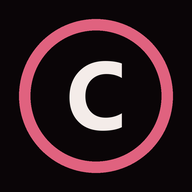
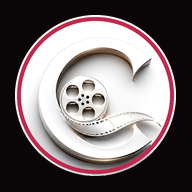
new

diff --git a/public/index.html b/public/index.html
@@ -65,9 +65,9 @@
    "url": "https://cinemoraproduction.com/",
    "logo": {
     "@type": "ImageObject",
-    "url": "https://cinemoraproduction.com/assets/logo.png",
-    "width": 640,
-    "height": 119
+    "url": "https://cinemoraproduction.com/assets/logo-full.png",
+    "width": 800,
+    "height": 800
    },
    "image": [
     "https://cinemoraproduction.com/assets/og-image.jpg",
@@ -82,12 +82,13 @@
    "currenciesAccepted": "LKR",
    "address": {
     "@type": "PostalAddress",
-    "streetAddress": "Near the Police Station, Pathegama",
+    "streetAddress": "Near Ahungalla Police Station, Pathegama",
     "addressLocality": "Balapitiya",
+    "postalCode": "80550",
     "addressRegion": "Southern Province",
     "addressCountry": "LK"
    },
-   "hasMap": "https://www.google.com/maps/search/?api=1&query=Pathegama%2C+Balapitiya%2C+Sri+Lanka",
+   "hasMap": "https://www.google.com/maps/search/?api=1&query=Ahungalla+Police+Station%2C+Balapitiya%2C+Sri+Lanka",
    "areaServed": [
     {
      "@type": "City",
@@ -816,7 +817,7 @@ body.loading main *,body.loading header{animation-play-state:paused!important}
 #bg{position:fixed;inset:0;z-index:0}
 header{position:fixed;top:0;left:0;right:0;z-index:5;display:flex;flex-wrap:wrap;align-items:center;justify-content:space-between;gap:10px;padding:14px 5vw;padding-top:calc(14px + env(safe-area-inset-top,0px));background:linear-gradient(#0a0507ee,#0a050700)}
 .logo{font-family:"Unbounded",var(--h);font-weight:800;letter-spacing:.24em;text-transform:uppercase;font-size:.95rem}
-.logo img{height:46px;width:auto;display:block}@media(max-width:600px){.logo img{height:34px}}
+.logo{display:flex;align-items:center;gap:12px}.logo img{height:46px;width:auto;display:block}.logo img.mark{height:52px;width:52px;border-radius:50%;box-shadow:0 0 14px rgba(224,98,127,.35)}@media(max-width:600px){.logo{gap:8px}.logo img{height:34px}.logo img.mark{height:40px;width:40px}}
 .ph{font-size:clamp(2.2rem,6vw,4.6rem);line-height:1.05;max-width:16ch;margin-bottom:14px}
 .pills{display:flex;flex-wrap:wrap;gap:8px;margin:0 0 30px}
 .pills button{background:transparent;border:1px solid var(--line);color:var(--fg);padding:9px 16px;border-radius:30px;font:400 .76rem var(--b);letter-spacing:.08em;cursor:pointer;transition:.25s}
@@ -901,7 +902,7 @@ a.l{text-decoration:none;border-bottom:1px solid var(--line);transition:.2s}a.l:
 .rec i{width:9px;height:9px;border-radius:50%;background:#ff2d4d;animation:blink 1s infinite}
 @keyframes blink{50%{opacity:.15}}
 #home.on .rec,#home.on .tag,#home.on .tagline,#home.on .sub,#home.on .hbtn{animation:rise 1s cubic-bezier(.2,.7,.2,1) both}
-#home.on .rec{animation-delay:.1s}#home.on .tag{animation-delay:.25s}#home.on .tagline{animation-delay:1.5s}#home.on .sub{animation-delay:1.7s}#home.on .hbtn{animation-delay:1.9s}
+#home.on .rec{animation-delay:.1s}#home.on .tag{animation-delay:.25s}#home.on .tagline{animation-delay:.5s}#home.on .sub{animation-delay:.65s}#home.on .hbtn{animation-delay:.8s}
 .tagline{font-size:1.2rem;color:var(--mut);margin:18px 0 6px;letter-spacing:.05em}
 .tagline em{color:var(--acc2);font-style:normal;font-weight:500}
 .scrollhint{margin-top:50px;color:var(--mut);letter-spacing:.3em;font-size:.68rem;animation:bob 1.6s infinite}
@@ -1029,6 +1030,36 @@ img{max-width:100%}
   *,*:before,*:after{animation-duration:.01ms!important;animation-delay:0s!important;animation-iteration-count:1!important;transition-duration:.01ms!important;scroll-behavior:auto!important}
   .scn>*{opacity:1;transform:none}
 }
+
+/* Phones: keep the 3D reel as atmosphere, never on top of the words */
+@media(max-width:800px){#bg{opacity:.32}#glow{display:none}}
+/* Phone action bar: Call / WhatsApp / Quote always one tap away */
+.works{display:grid;grid-template-columns:repeat(4,1fr);gap:14px;margin-top:28px}
+@media(max-width:900px){.works{grid-template-columns:repeat(2,1fr)}}
+.wk{position:relative;display:block;aspect-ratio:9/16;border-radius:14px;overflow:hidden;border:1px solid var(--line);text-decoration:none;color:#fff;background:#1a0a10}
+.wk img{width:100%;height:100%;object-fit:cover;display:block;transition:transform .6s cubic-bezier(.2,.7,.2,1)}
+.wk:after{content:"";position:absolute;inset:0;background:linear-gradient(transparent 45%,rgba(10,5,7,.92))}
+.wk:hover img,.wk:focus-visible img{transform:scale(1.05)}
+.wp{position:absolute;top:50%;left:50%;width:54px;height:54px;margin:-27px 0 0 -27px;border-radius:50%;background:rgba(194,41,77,.85);display:flex;align-items:center;justify-content:center;z-index:1;box-shadow:0 0 0 6px rgba(194,41,77,.25);transition:transform .25s}
+.wk:hover .wp{transform:scale(1.1)}
+.wi{position:absolute;left:14px;right:14px;bottom:14px;z-index:1;display:flex;flex-direction:column;gap:3px}
+.wi em{font-style:normal;font-size:.62rem;letter-spacing:.2em;text-transform:uppercase;color:var(--acc2)}
+.wi b{font-weight:600;font-size:.98rem;line-height:1.25}
+.wi small{font-size:.72rem;color:#d9c8cc}
+@media(max-width:600px){.wi b{font-size:.85rem}.wp{width:44px;height:44px;margin:-22px 0 0 -22px}}
+.proof{margin-top:18px;color:var(--mut);font-size:.85rem}.proof b{color:var(--fg)}
+#bar{display:none}
+@media(max-width:800px){
+#wa{display:none}
+#bar{display:grid;grid-template-columns:1fr 1fr 1.25fr;gap:8px;position:fixed;left:0;right:0;bottom:0;z-index:40;padding:10px 12px calc(10px + env(safe-area-inset-bottom,0px));background:linear-gradient(#0a050700,#0a0507e6 30%);backdrop-filter:blur(6px);-webkit-backdrop-filter:blur(6px)}
+#bar a,#bar button{display:flex;align-items:center;justify-content:center;gap:7px;min-height:48px;border-radius:26px;font:500 .82rem var(--b);letter-spacing:.06em;text-decoration:none;color:#fff;border:1px solid var(--line);background:#1a0a10;cursor:pointer}
+#bar .bwa{background:#1f9d55;border-color:#1f9d55}
+#bar .bq{background:var(--acc);border-color:var(--acc)}
+#bar svg{flex:none}
+footer{padding-bottom:110px}
+}
+#qok{display:none;margin-top:14px;padding:12px 14px;border:1px solid #1f9d55;border-radius:10px;color:#bff0d3;font-size:.88rem;line-height:1.5}
+#qok.on{display:block}
 </style>
 <noscript><style>body.loading{overflow:visible}#intro{display:none}</style></noscript>
 </head>
@@ -1039,7 +1070,7 @@ img{max-width:100%}
 <div class="s">VIDEOGRAPHY SERVICE</div><div class="fl"></div><div class="pb"></div><div class="sk">TAP TO SKIP</div></div>
 <canvas id="bg" aria-hidden="true"></canvas><div id="glow" aria-hidden="true"></div>
 <header>
-  <a class="logo" href="/" data-t="home" aria-label="Cinemora Production home"><img src="/assets/logo.png" alt="Cinemora Production" width="640" height="119" fetchpriority="high" decoding="async"></a>
+  <a class="logo" href="/" data-t="home" aria-label="Cinemora Production home"><img class="mark" src="/assets/logo-mark.png" alt="" width="192" height="192" decoding="async"><img src="/assets/logo.png" alt="Cinemora Production" width="640" height="119" fetchpriority="high" decoding="async"></a>
   <nav id="nav" aria-label="Main">
     <a href="/" data-t="home" class="on" aria-current="page">Home</a>
     <a href="/prices" data-t="prices">Pricing &amp; Packages</a>
@@ -1055,7 +1086,7 @@ img{max-width:100%}
     <h1 class="hero" data-h1="home"><span class="tag">Wedding Cinematography &amp; Videography · Sri Lanka</span><span class="big" id="big" aria-hidden="true">CINEMORA</span><span class="vh">Cinemora Production</span></h1>
     <div class="tagline">We shape your <em>story</em> in motion.</div>
     <p class="sub">Cinemora Production creates cinematic wedding films, events, corporate videos and commercials that people remember.</p>
-    <div class="hbtn"><a class="cta" href="/contact" data-go="contact">Book a Shoot</a></div>
+    <div class="hbtn btns" style="margin-top:0"><a class="cta" href="/contact" data-go="contact">Book a Shoot</a><a class="cta ghost" href="/prices" data-go="prices">See Packages &amp; Prices</a></div>
     <div class="scrollhint" aria-hidden="true">SCROLL ↓</div>
     <div style="height:20vh"></div>
     <div class="scn"><div class="tag">Who we are</div><h2 style="font-size:clamp(2rem,6vw,4.2rem);max-width:16ch">Every frame tells a story worth remembering.</h2><p class="sub">Cinemora Production is a creative production brand from Balapitiya, Sri Lanka, built around capturing emotions, telling stories and turning special moments into timeless visual experiences, from weddings and celebrations to brand films across the island.</p></div>
@@ -1065,8 +1096,13 @@ img{max-width:100%}
       <div class="card"><h3>Corporate</h3><ul><li>Brand and promo videos</li><li><a href="/prices" data-go="prices">Corporate packages from Rs. 35,000</a></li></ul></div>
       <div class="card"><h3>Commercials</h3><ul><li>Ads, product films and music videos</li><li><a href="/prices" data-go="prices">Commercials from Rs. 40,000</a></li></ul></div>
     </div></div>
+    <div class="scn"><div class="tag">Our work</div><h2>Watch Our Films</h2><p class="sub">Real films we’ve shot for real people, watched by thousands on Facebook. Tap any film to watch it.</p>
+      <div class="works"><a class="wk" href="https://www.facebook.com/reel/982675031117422/" target="_blank" rel="noopener noreferrer" aria-label="Watch BMW S1000RR on Facebook (12K views)"><img src="/assets/work/bmw.jpg" alt="Still from BMW S1000RR, filmed by Cinemora Production" width="432" height="768" loading="lazy" decoding="async"><span class="wp" aria-hidden="true"><svg width="22" height="22" viewBox="0 0 24 24" fill="#fff"><path d="M8 5v14l11-7z"/></svg></span><span class="wi"><em>Commercial</em><b>BMW S1000RR</b><small>12K views on Facebook</small></span></a><a class="wk" href="https://www.facebook.com/reel/1079789437947622/" target="_blank" rel="noopener noreferrer" aria-label="Watch An engagement story on Facebook (4.4K views)"><img src="/assets/work/engagement.jpg" alt="Still from An engagement story, filmed by Cinemora Production" width="432" height="768" loading="lazy" decoding="async"><span class="wp" aria-hidden="true"><svg width="22" height="22" viewBox="0 0 24 24" fill="#fff"><path d="M8 5v14l11-7z"/></svg></span><span class="wi"><em>Wedding</em><b>An engagement story</b><small>4.4K views on Facebook</small></span></a><a class="wk" href="https://www.facebook.com/reel/996662083465199/" target="_blank" rel="noopener noreferrer" aria-label="Watch A midnight birthday surprise on Facebook (4.1K views)"><img src="/assets/work/surprise.jpg" alt="Still from A midnight birthday surprise, filmed by Cinemora Production" width="432" height="768" loading="lazy" decoding="async"><span class="wp" aria-hidden="true"><svg width="22" height="22" viewBox="0 0 24 24" fill="#fff"><path d="M8 5v14l11-7z"/></svg></span><span class="wi"><em>Event</em><b>A midnight birthday surprise</b><small>4.1K views on Facebook</small></span></a><a class="wk" href="https://www.facebook.com/reel/1407479184326211/" target="_blank" rel="noopener noreferrer" aria-label="Watch Morning at the old bridge on Facebook (2K views)"><img src="/assets/work/bridge.jpg" alt="Still from Morning at the old bridge, filmed by Cinemora Production" width="432" height="768" loading="lazy" decoding="async"><span class="wp" aria-hidden="true"><svg width="22" height="22" viewBox="0 0 24 24" fill="#fff"><path d="M8 5v14l11-7z"/></svg></span><span class="wi"><em>Cinematic</em><b>Morning at the old bridge</b><small>2K views on Facebook</small></span></a></div>
+      <div class="btns"><a class="cta ghost" href="https://www.facebook.com/CinemoraProduction/reels/" target="_blank" rel="noopener noreferrer">See all films on Facebook ↗</a><a class="cta ghost" href="https://www.tiktok.com/@cinemora.production" target="_blank" rel="noopener noreferrer">TikTok ↗</a></div>
+      <p class="proof"><b>7.2K+</b> followers on Facebook &nbsp;·&nbsp; <b>100%</b> of reviewers recommend us</p>
+    </div>
     <div class="scn"><div class="tag">By the numbers</div><div class="grid"><div class="card"><div class="num" data-to="5">5+</div><p class="sub" style="margin:6px 0 0">Years of experience</p></div><div class="card"><div class="num" data-to="200">200+</div><p class="sub" style="margin:6px 0 0">Projects filmed</p></div><div class="card"><div class="num" data-to="150">150+</div><p class="sub" style="margin:6px 0 0">Happy clients</p></div></div></div>
-    <div class="scn" style="align-items:center;text-align:center"><h2 style="font-size:clamp(2rem,6vw,4.2rem)">Let’s make your film.</h2><p class="sub" style="margin:18px auto 28px">Tell us about your day or project and we’ll take care of the rest.</p><div><a class="cta" href="/contact" data-go="contact">Book a Shoot</a></div></div>
+    <div class="scn" style="align-items:center;text-align:center"><h2 style="font-size:clamp(2rem,6vw,4.2rem)">Let’s make your film.</h2><p class="sub" style="margin:18px auto 28px">Tell us about your day or project and we’ll take care of the rest.</p><div class="btns" style="justify-content:center"><button type="button" class="cta" data-quote>Request a Quotation</button><a class="cta ghost" href="tel:+94703770730">Call 070 377 0730</a></div></div>
   </section>
 
   <section id="prices" aria-labelledby="prices-h">
@@ -1074,7 +1110,7 @@ img{max-width:100%}
     <h2 class="ph" id="prices-h" data-h1="prices">Every Moment. A Masterpiece.</h2>
     <p class="sub" style="margin-bottom:10px">Explore our carefully crafted production packages, designed to transform moments into timeless visual stories.</p>
     <p class="sub" style="margin:0 0 26px;font-size:.92rem">From cinematic wedding films to commercial productions, every package is built around your story. All prices are starting prices in Sri Lankan Rupees (Rs.). Choose a category, pick a package and request your quotation.</p>
-    <div class="pills" id="pills" role="toolbar" aria-label="Service categories"><button type="button" data-f="all">All</button><button type="button" data-f="0" class="on" aria-pressed="true">Wedding Cinematography</button><button type="button" data-f="1" aria-pressed="false">Birthday &amp; Private Events</button><button type="button" data-f="2" aria-pressed="false">Commercial Productions</button><button type="button" data-f="3" aria-pressed="false">Corporate &amp; Special Events</button><button type="button" data-f="4" aria-pressed="false">Product Photography &amp; Videography</button><button type="button" data-f="5" aria-pressed="false">Portrait &amp; Lifestyle Photography</button><button type="button" data-f="6" aria-pressed="false">Music Videos &amp; Creative Films</button></div>
+    <div class="pills" id="pills" role="toolbar" aria-label="Service categories"><button type="button" data-f="all" aria-pressed="false">All</button><button type="button" data-f="0" class="on" aria-pressed="true">Wedding Cinematography</button><button type="button" data-f="1" aria-pressed="false">Birthday &amp; Private Events</button><button type="button" data-f="2" aria-pressed="false">Commercial Productions</button><button type="button" data-f="3" aria-pressed="false">Corporate &amp; Special Events</button><button type="button" data-f="4" aria-pressed="false">Product Photography &amp; Videography</button><button type="button" data-f="5" aria-pressed="false">Portrait &amp; Lifestyle Photography</button><button type="button" data-f="6" aria-pressed="false">Music Videos &amp; Creative Films</button></div>
     <div id="pk">
       <article class="cat cur" id="wedding-cinematography" data-ci="0" data-name="Wedding Cinematography" aria-labelledby="cat-0">
         <div class="cathead"><div class="tag">Category 01</div><h3 id="cat-0">Wedding Cinematography</h3><p>Wedding videography only, crafted as a cinematic film.</p></div>
@@ -1149,12 +1185,13 @@ img{max-width:100%}
 
   <section id="contact" aria-labelledby="contact-h">
     <div class="tag">Get in touch</div><h2 id="contact-h" data-h1="contact">Contact Details</h2>
+    <p class="sub" style="margin:10px 0 0">Call, WhatsApp or email us to check your date. We usually reply the same day.</p>
     <div class="card" style="max-width:600px;margin-top:24px">
       <div class="row"><b>Phone</b><span><a class="l" href="tel:+94703770730">070 377 0730</a> &nbsp;|&nbsp; <a class="l" href="tel:+94743500507">074 350 0507</a></span></div>
       <div class="row"><b>Email</b><a class="l" href="mailto:cinemoraproductionlk@gmail.com">cinemoraproductionlk@gmail.com</a></div>
-      <div class="row"><b>WhatsApp</b><a class="l" href="https://wa.me/message/E7ERP73DCK3QJ1" target="_blank" rel="noopener noreferrer">Chat with us</a></div>
+      <div class="row"><b>WhatsApp</b><a class="l" href="https://wa.me/message/E7ERP73DCK3QJ1" target="_blank" rel="noopener noreferrer">074 350 0507 · Chat with us</a></div>
     </div>
-    <div class="btns"><a class="cta" href="tel:+94703770730">Call Now</a><a class="cta ghost" href="https://wa.me/message/E7ERP73DCK3QJ1" target="_blank" rel="noopener noreferrer">WhatsApp</a><a class="cta ghost" href="mailto:cinemoraproductionlk@gmail.com">Send Email</a></div>
+    <div class="btns"><a class="cta" href="tel:+94703770730">Call Now</a><a class="cta ghost" href="https://wa.me/message/E7ERP73DCK3QJ1" target="_blank" rel="noopener noreferrer">WhatsApp</a><a class="cta ghost" href="mailto:cinemoraproductionlk@gmail.com">Send Email</a><button type="button" class="cta ghost" data-quote>Request a Quotation</button></div>
   </section>
 
   <section id="social" aria-labelledby="social-h">
@@ -1190,16 +1227,16 @@ img{max-width:100%}
     <div class="locwrap">
       <div class="card">
         <div class="row"><b>Location</b><span>Balapitiya, Sri Lanka</span></div>
-        <div class="row"><b>Address</b><span>Thusal’s home, near the police station,<br>Pathegama, Balapitiya</span></div>
-        <div class="row"><b>Visit</b><span>Please call or message before visiting</span></div>
-        <div class="btns"><a class="cta" href="https://www.google.com/maps/search/?api=1&amp;query=Pathegama%2C+Balapitiya%2C+Sri+Lanka" target="_blank" rel="noopener noreferrer">Open in Google Maps</a><a class="cta ghost" href="https://www.google.com/maps/dir/?api=1&amp;destination=Pathegama%2C+Balapitiya%2C+Sri+Lanka" target="_blank" rel="noopener noreferrer">Get Directions</a></div>
+        <div class="row"><b>Address</b><span>Thusal’s home, near Ahungalla Police Station,<br>Pathegama, Balapitiya</span></div>
+        <div class="row"><b>Visit</b><span>Directions take you to Ahungalla Police Station. Call <a class="l" href="tel:+94703770730">070 377 0730</a> from there and we’ll guide you the last few minutes. Please call or message before visiting.</span></div>
+        <div class="btns"><a class="cta" href="https://www.google.com/maps/search/?api=1&amp;query=Ahungalla+Police+Station%2C+Balapitiya%2C+Sri+Lanka" target="_blank" rel="noopener noreferrer">Open in Google Maps</a><a class="cta ghost" href="https://www.google.com/maps/dir/?api=1&amp;destination=Ahungalla+Police+Station%2C+Balapitiya%2C+Sri+Lanka" target="_blank" rel="noopener noreferrer">Get Directions</a></div>
       </div>
       <div class="mapart" aria-hidden="true"><svg viewBox="0 0 300 220"><g class="gl"><path d="M0 60H300M0 110H300M0 160H300M60 0V220M120 0V220M180 0V220M240 0V220"/></g><path class="rd" d="M0 170C70 150 90 90 160 100S260 60 300 30"/><path class="rd" d="M110 220C120 170 150 140 160 100"/><g class="pin"><circle class="pr" cx="160" cy="100" r="8"/><circle class="pr p2" cx="160" cy="100" r="8"/><path d="M160 66C148 66 140 75 140 86C140 100 160 118 160 118C160 118 180 100 180 86C180 75 172 66 160 66Z" fill="#c2294d"/><circle cx="160" cy="86" r="6" fill="#fff"/></g></svg><span>Balapitiya</span></div>
     </div>
   </section>
 </main>
 <footer>
-  <address>Cinemora Production · Near the Police Station, Pathegama, Balapitiya, Sri Lanka<br><a href="tel:+94703770730">070 377 0730</a> · <a href="tel:+94743500507">074 350 0507</a> · <a href="mailto:cinemoraproductionlk@gmail.com">cinemoraproductionlk@gmail.com</a></address>
+  <address>Cinemora Production · Near Ahungalla Police Station, Pathegama, Balapitiya, Sri Lanka<br><a href="tel:+94703770730">070 377 0730</a> · <a href="tel:+94743500507">074 350 0507</a> · <a href="mailto:cinemoraproductionlk@gmail.com">cinemoraproductionlk@gmail.com</a></address>
   © 2026 Cinemora Production. All rights reserved.
 </footer>
 <div id="qm" role="dialog" aria-modal="true" aria-labelledby="qt" hidden><div class="qbox"><button type="button" class="qx" id="qx" aria-label="Close">&times;</button>
@@ -1213,10 +1250,11 @@ img{max-width:100%}
 <label>Preferred package<select id="qk" name="package"></select></label>
 <label class="full">Event location<input id="ql" name="location" maxlength="120"></label>
 <label class="full">Additional project details<textarea id="qx2" name="details" rows="3" maxlength="1000"></textarea></label>
-</div><div id="qs" role="alert" aria-live="assertive"></div>
+</div><div id="qs" role="alert" aria-live="assertive"></div><div id="qok" role="status" aria-live="polite"></div>
 <div class="btns"><button type="button" class="cta" id="qwa">Send via WhatsApp</button><button type="button" class="cta ghost" id="qem">Send via Email</button></div></div></div>
 <a id="wa" href="https://wa.me/message/E7ERP73DCK3QJ1" target="_blank" rel="noopener noreferrer" aria-label="Chat with Cinemora Production on WhatsApp"><svg width="30" height="30" viewBox="0 0 24 24" fill="#fff"><path d="M12 2a10 10 0 0 0-8.6 15.1L2 22l5-1.3A10 10 0 1 0 12 2zm0 18.2c-1.5 0-3-.4-4.2-1.2l-.3-.2-3 .8.8-2.9-.2-.3A8.2 8.2 0 1 1 12 20.2zm4.5-6.1c-.2-.1-1.5-.7-1.7-.8-.2-.1-.4-.1-.6.1l-.8 1c-.1.2-.3.2-.5.1a6.700 6.700 0 0 1-3.300-2.900c-.2-.4.2-.4.700-1.300.1-.2 0-.3 0-.4l-.8-1.800c-.2-.5-.4-.4-.6-.4h-.5c-.2 0-.4.1-.7.3-.2.300-.9.900-.9 2.200s.9 2.500 1.100 2.700c.1.200 1.800 2.800 4.400 3.900 1.600.7 2.300.7 3.100.6.500-.1 1.500-.6 1.700-1.200.2-.6.2-1.100.2-1.200-.1-.1-.3-.2-.5-.3z"/></svg></a>
 
+<nav id="bar" aria-label="Quick contact"><a href="tel:+94703770730"><svg width="17" height="17" viewBox="0 0 24 24" fill="none" stroke="#fff" stroke-width="2" stroke-linecap="round" stroke-linejoin="round" aria-hidden="true"><path d="M22 16.9v3a2 2 0 0 1-2.2 2 19.8 19.8 0 0 1-8.6-3.1 19.5 19.5 0 0 1-6-6A19.8 19.8 0 0 1 2.1 4.2 2 2 0 0 1 4.1 2h3a2 2 0 0 1 2 1.7c.1.9.4 1.8.7 2.7a2 2 0 0 1-.5 2.1L8 9.8a16 16 0 0 0 6 6l1.3-1.3a2 2 0 0 1 2.1-.4c.9.3 1.8.6 2.7.7a2 2 0 0 1 1.7 2z"/></svg>Call</a><a class="bwa" href="https://wa.me/message/E7ERP73DCK3QJ1" target="_blank" rel="noopener noreferrer"><svg width="18" height="18" viewBox="0 0 24 24" fill="#fff" aria-hidden="true"><path d="M12 2a10 10 0 0 0-8.6 15.1L2 22l5-1.3A10 10 0 1 0 12 2zm0 18.2c-1.5 0-3-.4-4.2-1.2l-.3-.2-3 .8.8-2.9-.2-.3A8.2 8.2 0 1 1 12 20.2z"/></svg>WhatsApp</a><button type="button" class="bq" data-quote>Get a Quote</button></nav>
 <script>
 (function(){
   'use strict';
@@ -1277,10 +1315,13 @@ img{max-width:100%}
   function idx(v,n){v=parseInt(v,10);return v>=0&&v<n?v:0}
   function fillK(pi){qk.textContent='';var c=CATS[idx(qc.value,CATS.length)];c.pk.forEach(function(k,i){qk.appendChild(new Option(k.name+' (from Rs. '+k.price+')',String(i)))});qk.value=String(idx(pi,c.pk.length))}
   qc.onchange=function(){fillK(0)};
-  function openQ(ci,pi){lastFocus=document.activeElement;qc.value=String(idx(ci,CATS.length));fillK(pi);qs.textContent='';qm.hidden=false;document.body.style.overflow='hidden';document.getElementById('qn').focus()}
+  function openQ(ci,pi){lastFocus=document.activeElement;qc.value=String(idx(ci,CATS.length));fillK(pi);qs.textContent='';qok.className='';qok.textContent='';qm.hidden=false;document.body.style.overflow='hidden';document.getElementById('qn').focus()}
   function closeQ(){if(qm.hidden)return;qm.hidden=true;document.body.style.overflow='';if(lastFocus&&lastFocus.focus)lastFocus.focus()}
   pk.addEventListener('click',function(e){var b=e.target.closest('.qb');if(b)openQ(b.dataset.c,b.dataset.p)});
   document.getElementById('qgen').onclick=function(){openQ(0,0)};
+  document.addEventListener('click',function(e){var b=e.target.closest&&e.target.closest('[data-quote]');if(b){e.preventDefault();openQ(0,0)}});
+  (function(){var d=new Date(),z=function(n){return(n<10?'0':'')+n};document.getElementById('qd').min=d.getFullYear()+'-'+z(d.getMonth()+1)+'-'+z(d.getDate())})();
+  var qok=document.getElementById('qok');
   document.getElementById('qx').onclick=closeQ;
   qm.addEventListener('click',function(e){if(e.target===qm)closeQ()});
   addEventListener('keydown',function(e){
@@ -1308,8 +1349,9 @@ img{max-width:100%}
     var c=CATS[idx(qc.value,CATS.length)],k=c.pk[idx(qk.value,c.pk.length)];
     return {cat:c.name,text:'Hello Cinemora Production, I would like to request a quotation.\n\nName: '+n+'\nEmail: '+(em||'-')+'\nContact number: '+(ph||'-')+'\nService category: '+c.name+'\nPreferred package: '+k.name+' (from Rs. '+k.price+')\nEvent/project date: '+(d||'-')+'\nEvent location: '+(loc||'-')+'\nAdditional details: '+(det||'-')};
   }
-  document.getElementById('qwa').onclick=function(){var m=build();if(m)window.open('https://wa.me/94703770730?text='+encodeURIComponent(m.text),'_blank','noopener,noreferrer')};
-  document.getElementById('qem').onclick=function(){var m=build();if(m)location.href='mailto:cinemoraproductionlk@gmail.com?subject='+encodeURIComponent('Quotation Request - '+m.cat)+'&body='+encodeURIComponent(m.text)};
+  function done(how){qok.textContent='Your message is ready in '+how+'. Just press Send there and we’ll get back to you soon. Prefer to talk? Call 070 377 0730.';qok.className='on';try{qok.scrollIntoView({block:'nearest',behavior:reduce?'auto':'smooth'})}catch(e){}}
+  document.getElementById('qwa').onclick=function(){var m=build();if(m){window.open('https://wa.me/94743500507?text='+encodeURIComponent(m.text),'_blank','noopener,noreferrer');done('WhatsApp')}};
+  document.getElementById('qem').onclick=function(){var m=build();if(m){location.href='mailto:cinemoraproductionlk@gmail.com?subject='+encodeURIComponent('Quotation Request - '+m.cat)+'&body='+encodeURIComponent(m.text);done('your email app')}};
 
   // ----- Scroll scenes & counters -----
   var BG=['#0a0507','#1a0710','#2a0a14','#160509','#0a0507'];
@@ -1363,7 +1405,7 @@ img{max-width:100%}
   function tick(){
     var t=(pos[cur]||[2.4,0,1]).slice(),narrow=innerWidth<800,rs=1,cc=[10,-1.5,2,.85];
     if(cur==='home'){var d=D[scn];t=d.r.slice(0,3);rs=d.r[3];cc=d.c}
-    if(narrow){t[0]=0;t[1]=-1.2;t[2]=-3}
+    if(narrow){t[0]=0;t[1]=-2.4;t[2]=-7}
     reel.position.x+=(t[0]-reel.position.x)*.05;reel.position.y+=(t[1]-reel.position.y)*.05;reel.position.z+=(t[2]-reel.position.z)*.05;
     reel.scale.x+=(rs-reel.scale.x)*.05;reel.scale.y=reel.scale.z=reel.scale.x;
     reel.rotation.z-=.006+sc*.002;reel.rotation.y+=((mx*1.2+.3)-reel.rotation.y)*.05;reel.rotation.x+=(my*.8-reel.rotation.x)*.05;

diff --git a/src/index.js b/src/index.js
@@ -9,6 +9,7 @@
  *  - Cache-Control tuned per content type
  */
 import { SITE, ROUTES, PATH_TO_ROUTE } from './routes.js';
+import { buildSitemap } from './sitemap.js';
 
 const ASSET_CACHE = 'public, max-age=604800, stale-while-revalidate=86400'; // 7 days
 const HTML_CACHE = 'private, no-cache'; // always revalidated; served from the edge in ms
@@ -55,7 +56,12 @@ async function handle(request, env, url, canonicalHost, local, preview) {
 
     // 4) Crawler endpoints.
     if (path === '/robots.txt') return text(preview ? 'User-agent: *\nDisallow: /\n' : robots(), 'text/plain; charset=utf-8', request, local);
-    if (path === '/sitemap.xml') return text(sitemap(env.SITE_LASTMOD), 'application/xml; charset=utf-8', request, local);
+    if (path === '/sitemap.xml') {
+      // Serve the generated public/sitemap.xml; build it on the fly if the file is missing.
+      const file = await env.ASSETS.fetch(new Request(new URL('/sitemap.xml', request.url)));
+      const body = file.ok ? await file.text() : buildSitemap(env.SITE_LASTMOD);
+      return text(body, 'application/xml; charset=utf-8', request, local);
+    }
 
     // 5) Pages.
     const routeKey = PATH_TO_ROUTE[path];
@@ -163,19 +169,6 @@ function robots() {
   return `User-agent: *\nAllow: /\n\nSitemap: ${SITE.origin}/sitemap.xml\n`;
 }
 
-function sitemap(lastmod) {
-  const date = /^\d{4}-\d{2}-\d{2}$/.test(lastmod || '') ? lastmod : new Date().toISOString().slice(0, 10);
-  const urls = Object.entries(ROUTES).map(([key, r]) => {
-    const image = key === 'founder'
-      ? `\n    <image:image><image:loc>${SITE.origin}/assets/founder.jpg</image:loc></image:image>`
-      : key === 'home'
-        ? `\n    <image:image><image:loc>${SITE.origin}/assets/og-image.jpg</image:loc></image:image>`
-        : '';
-    return `  <url>\n    <loc>${xml(SITE.origin + r.path)}</loc>\n    <lastmod>${date}</lastmod>\n    <changefreq>${r.changefreq}</changefreq>\n    <priority>${r.priority}</priority>${image}\n  </url>`;
-  });
-  return `<?xml version="1.0" encoding="UTF-8"?>\n<urlset xmlns="http://www.sitemaps.org/schemas/sitemap/0.9" xmlns:image="http://www.google.com/schemas/sitemap-image/1.1">\n${urls.join('\n')}\n</urlset>\n`;
-}
-
 function text(body, type, request, local) {
   return secure(new Response(request.method === 'HEAD' ? null : body, {
     headers: {
@@ -238,8 +231,4 @@ function makeNonce() {
 
 function safeJson(value) {
   return JSON.stringify(value).replace(/</g, '\\u003c').replace(/>/g, '\\u003e').replace(/&/g, '\\u0026');
-}
-
-function xml(s) {
-  return String(s).replace(/&/g, '&amp;').replace(/</g, '&lt;').replace(/>/g, '&gt;');
 }

diff --git a/src/sitemap.js b/src/sitemap.js
@@ -1,0 +1,23 @@
+// Builds sitemap.xml from routes.js. Used by scripts/build-sitemap.mjs (writes public/sitemap.xml)
+// and by the Worker as a fallback if that file is missing.
+import { SITE, ROUTES } from './routes.js';
+
+const PAGE_IMAGES = {
+  home: ['/assets/og-image.jpg', '/assets/logo-full.png'],
+  founder: ['/assets/founder.jpg'],
+};
+
+export function buildSitemap(lastmod) {
+  const date = /^\d{4}-\d{2}-\d{2}$/.test(lastmod || '') ? lastmod : new Date().toISOString().slice(0, 10);
+  const urls = Object.entries(ROUTES).map(([key, r]) => {
+    const images = (PAGE_IMAGES[key] || [])
+      .map((src) => `\n    <image:image><image:loc>${xml(SITE.origin + src)}</image:loc></image:image>`)
+      .join('');
+    return `  <url>\n    <loc>${xml(SITE.origin + r.path)}</loc>\n    <lastmod>${date}</lastmod>\n    <changefreq>${r.changefreq}</changefreq>\n    <priority>${r.priority}</priority>${images}\n  </url>`;
+  });
+  return `<?xml version="1.0" encoding="UTF-8"?>\n<urlset xmlns="http://www.sitemaps.org/schemas/sitemap/0.9" xmlns:image="http://www.google.com/schemas/sitemap-image/1.1">\n${urls.join('\n')}\n</urlset>\n`;
+}
+
+function xml(s) {
+  return String(s).replace(/&/g, '&amp;').replace(/</g, '&lt;').replace(/>/g, '&gt;');
+}

diff --git a/src/routes.js b/src/routes.js
@@ -40,7 +40,7 @@ export const ROUTES = {
     path: '/location',
     title: 'Videographer in Balapitiya, Sri Lanka | Cinemora Production Location',
     description:
-      'Cinemora Production is based in Pathegama, Balapitiya, near the police station, and films weddings, events and commercials across Sri Lanka. Call or message before visiting.',
+      'Cinemora Production is based in Pathegama, Balapitiya, near Ahungalla Police Station, and films weddings, events and commercials across Sri Lanka. Call or message before visiting.',
     priority: '0.8',
     changefreq: 'yearly',
     crumb: 'Location',

diff --git a/README.md b/README.md
@@ -7,11 +7,15 @@ cinemora/
 ├─ .dev.vars              local-only flag (wrangler dev reads it; never deployed)
 ├─ src/
 │  ├─ index.js            Worker: redirects, per-page SEO, robots/sitemap, security headers, caching
-│  └─ routes.js           Every page's URL, <title>, description, sitemap priority (edit here)
+│  ├─ routes.js           Every page's URL, <title>, description, sitemap priority (edit here)
+│  └─ sitemap.js          Builds sitemap.xml from routes.js
+├─ scripts/build-sitemap.mjs   `npm run sitemap` → writes public/sitemap.xml
 └─ public/                Static files served by the Worker
    ├─ index.html          The site (all content pre-rendered, JSON-LD in <head>)
+   ├─ sitemap.xml         Generated by `npm run sitemap` (don't edit by hand)
    ├─ site.webmanifest, favicon.ico, apple-touch-icon.png
-   └─ assets/             logo.png, founder.jpg, og-image.jpg (1200×630 share image), icons
+   └─ assets/             logo.png (header text), logo-mark.png (round C emblem), logo-full.png (full logo, used by Google),
+                          founder.jpg, og-image.jpg (1200×630 share image), icon-192/512.png
 ```
 
 ## Everyday edits
@@ -19,6 +23,7 @@ cinemora/
   `"minPrice"` / `"lowPrice"` numbers in the JSON-LD block in the `<head>`, so Google sees the same price.
 - **A page's Google title or description:** edit `src/routes.js`.
 - **After any content change:** set `SITE_LASTMOD` in `wrangler.toml` to today's date, then deploy.
+  `npm run deploy` rebuilds `public/sitemap.xml` first. If you deploy another way (e.g. a GitHub push), run `npm run sitemap` and commit the file.
 - **Replacing an image:** keep the same file name. Browsers cache images for up to 7 days.
 
 ## Run locally
